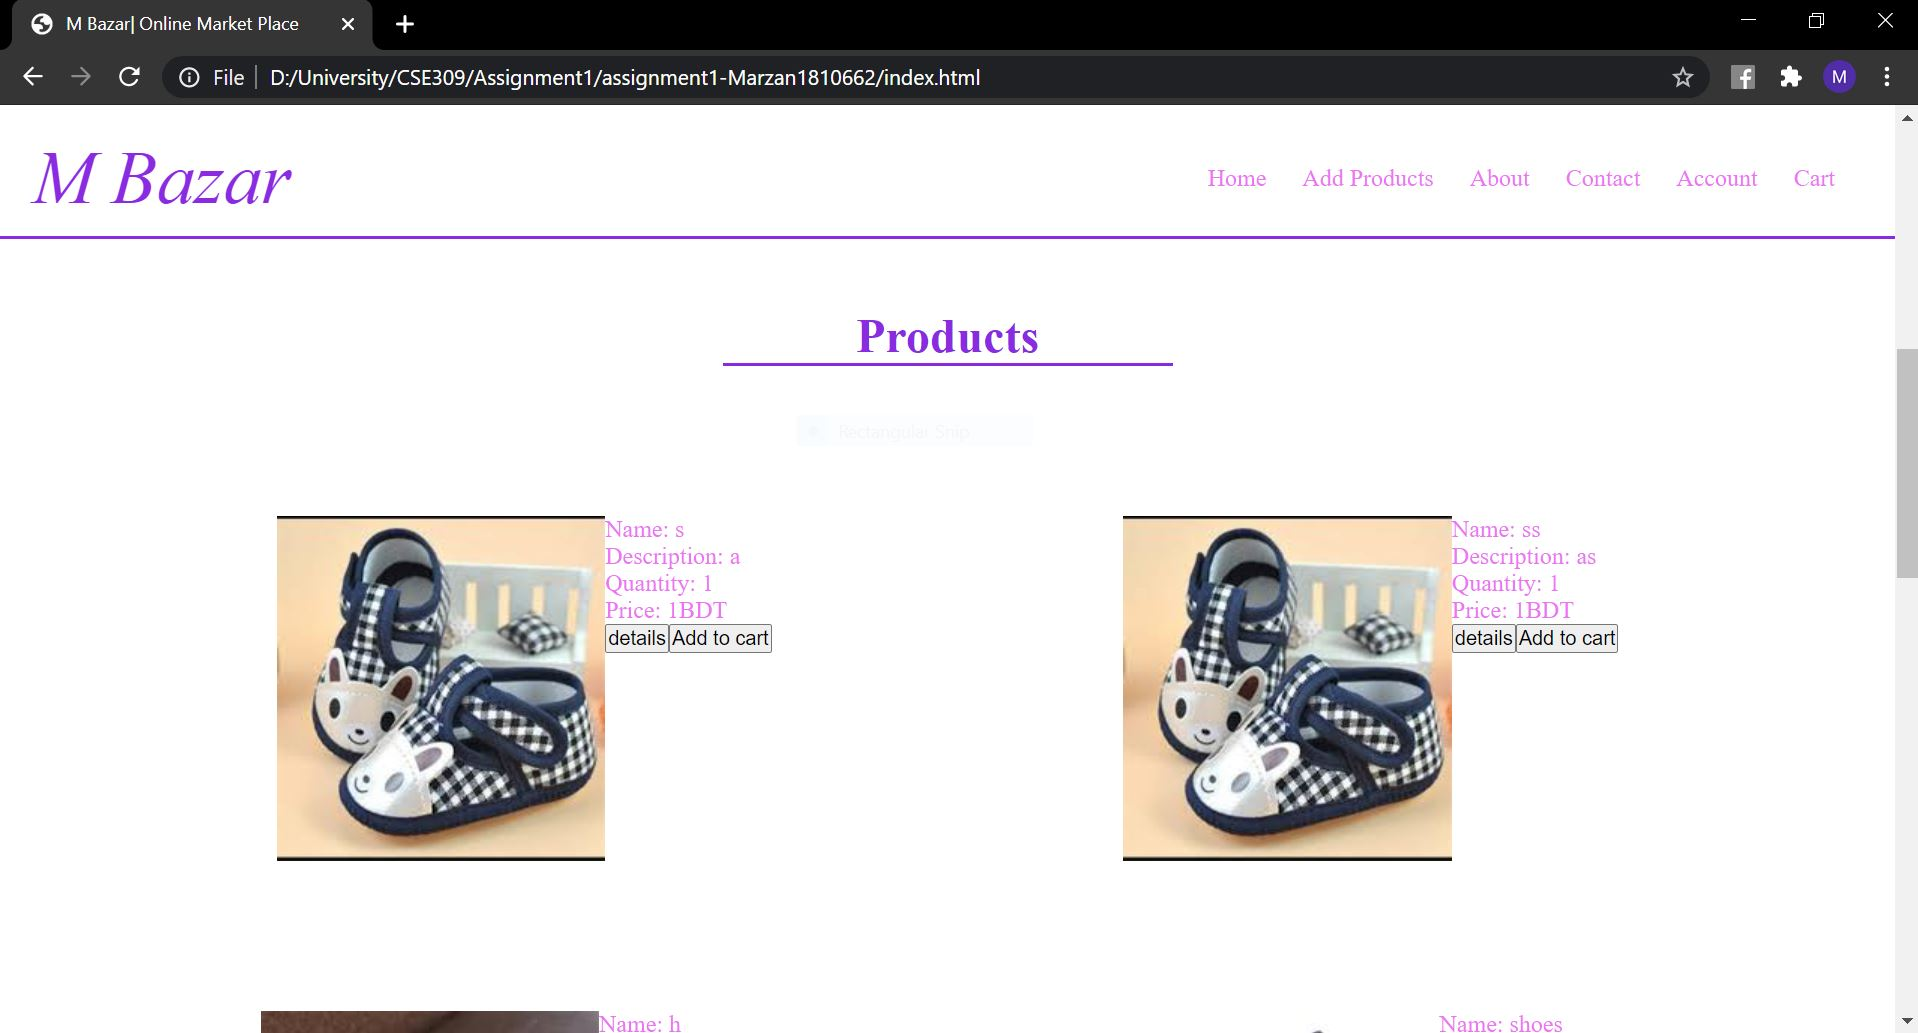
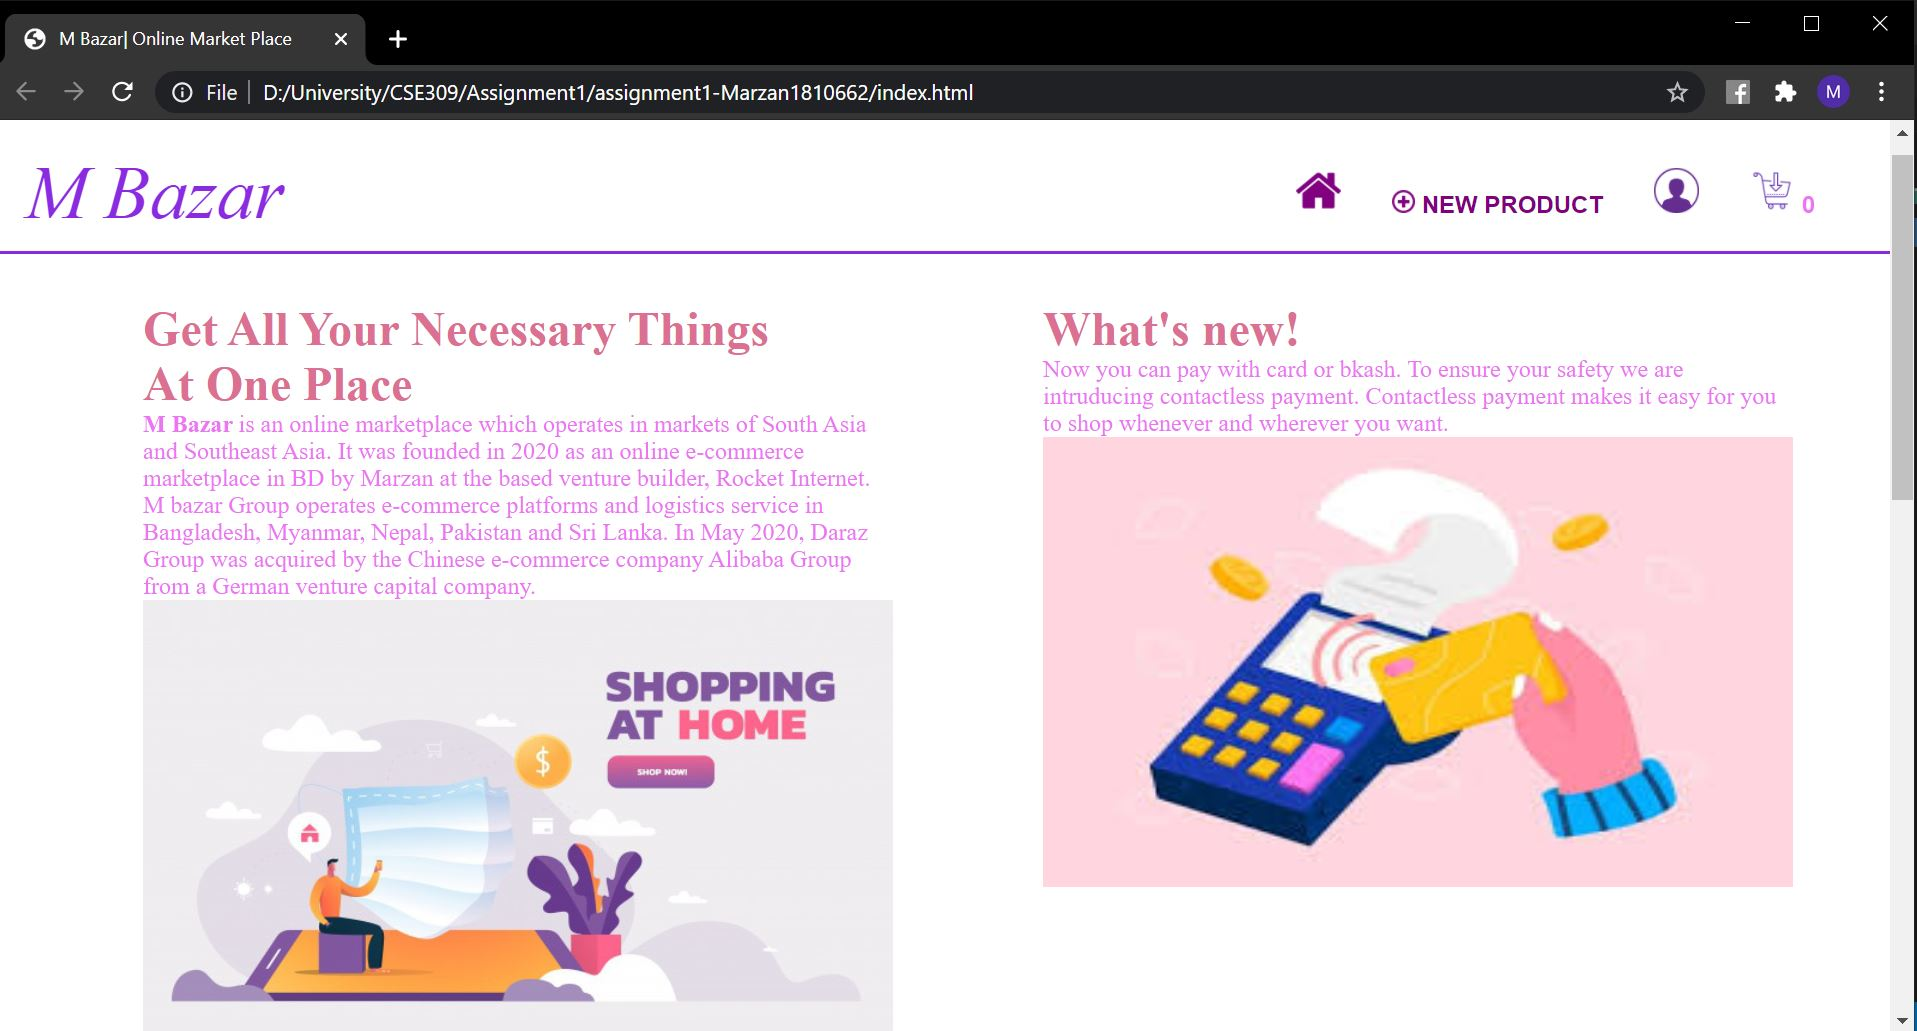
assignment1 original

diff --git a/index.html b/index.html
@@ -10,7 +10,7 @@
 <body>
     <div id="container">
         <div class="navbar">
-            <div id="logo"><a href="index.html"> MM Bazar</a></div>
+            <div id="logo"><a href="index.html"> M Bazar</a></div>
             <nav>
                 <ul>
                     <li>
@@ -34,13 +34,13 @@
         <div class="row">
             <div class="col-1">
                 <h1 style="color: palevioletred;"> Get All Your Necessary Things <br> At One Place</h1>
-                <p>hiuhku jkjkjbjouhouh uhuihiohkkjnhiu <br>bhbkbkjhuhiuhiu bhbkjbkjbk hbkbj</p>
+                <p><b> M Bazar </b> is an online marketplace which operates in markets of South Asia and Southeast Asia. It was founded in 2020 as an online e-commerce marketplace in BD by Marzan at the based venture builder, Rocket Internet. M bazar Group
+                    operates e-commerce platforms and logistics service in Bangladesh, Myanmar, Nepal, Pakistan and Sri Lanka. In May 2020, Daraz Group was acquired by the Chinese e-commerce company Alibaba Group from a German venture capital company.</p>
                 <img src="onlinemarketplace2.png" alt="onlinemarketplace" width="500px" height="300px">
             </div>
             <div class="col-2">
                 <h1> What's new!</h1>
-                <p>Lorem ipsum dolor sit amet, consectetur adipiscing elit. Ut suscipit tortor et purus rutrum faucibus. Etiam pharetra neque at purus dictum, vel interdum urna bibendum. Pellentesque mattis erat ut mollis vulputate. Sed dignissim gravida
-                    turpis, vel mattis erat aliquam vel. Curabitur ultricies gravida neque nec aliquet. Aliquam ut odio a sapien pharetra ornare vel ut est. Fusce vehicula varius massa et euismod.</p>
+                <p>Now you can pay with card or bkash. To ensure your safety we are intruducing contactless payment. Contactless payment makes it easy for you to shop whenever and wherever you want.</p>
                 <img src="contactlesspayment.jpg" alt="contactlesspayment" width="500px" height="300px">
             </div>
         </div>

diff --git a/script.js b/script.js
@@ -13,6 +13,7 @@ if (products.length > 0) {
         let price = $('<p>').text('Price: ' + products[i].price + "BDT");
         let details = $('<button>').text('details').attr("id", "d" + i).addClass("productviewbtn");
         let addcart = $('<button>').text('Add to cart').attr("id", "p" + i).addClass("productviewbtn");
+        //let addcart = $('<button>').text('Add to cart').attr("id", "p" + i).addClass("productviewbtn cart");
         let remove = $('<button>').text('Remove').attr("id", "r1" + i).addClass("productviewbtn");
         let div1 = $('<div>').append(name, price, details, addcart).css("text-align", "left").addClass("productview");
         let product = $('<div>').append(image, div1).addClass('eachproduct');
@@ -22,7 +23,12 @@ if (products.length > 0) {
     }
 }
 
-//submit butoon on click
+//line 16 click function with classname for dynamicaaly created button
+// $('.cart').click(function(event) {
+//     console.log(event.target.id);
+// })
+
+//submit button on click
 $('#submit').click(function() {
     let id = products.length
     let name = $('#name').val();
@@ -48,6 +54,12 @@ $('#submit').click(function() {
 })
 
 
+//cancel button on click
+$('#cancel').click(function() {
+    window.location.href = "add_products.html"
+})
+
+
 
 cart = [];
 
@@ -63,7 +75,7 @@ if (cart.length == 0) {
 }
 
 
-if (cart.length == 0) { $('#itemno').hide() } else { $('#itemno').show() }
+// if (cart.length == 0) { $('#itemno').hide() } else { $('#itemno').show() }
 $('#itemno').text(cart.length)
 
 

diff --git a/add_products.html b/add_products.html
@@ -19,7 +19,9 @@
                     <a href=""><img src="account.png" alt="account" height="30px" width="30px"></a>
                 </li>
                 <li>
-                    <a href="cart.html"><img src="cart.png" alt="cart" height="30px" width="30px"></a>
+                    <a href="cart.html"><img src="cart.png" alt="cart" height="30px" width="30px">
+                        <p id="itemno"></p>
+                    </a>
                 </li>
             </ul>
         </nav>

diff --git a/style.css b/style.css
@@ -129,11 +129,17 @@ p {
     flex-wrap: wrap;
     margin: 90px 0px;
     margin-bottom: 0px;
-    padding: 50px;
+    padding: 50px 0px;
     padding-bottom: 60px;
     /* padding-left: 50px; */
     /* border-bottom: 2px solid blueviolet; */
     /* background-color: rgb(239, 220, 241); */
+}
+
+.col-1 {
+    color: palevioletred;
+    margin-left: 100px;
+    width: 500px;
 }
 
 .col-2 {

diff --git a/README.md b/README.md
@@ -1,28 +1,44 @@
 # Assignment1
-1.All products view- Home Page
-<<<<<<< HEAD
-<img src= "images/HomePage.JPG" alt="Home page">
-=======
-<img src="HomePage.jpg">
+1. Home Page
+<img src="images/Homepage.JPG">
+    -On the first page there are information about the page and information about new features.
+    -On the navigation bar there is manu bar containing home, add new product, account and cart icon
 
->>>>>>> 3084b16680d8b077c44ba7ef1c2118ed62d6d01c
-    - "new product" in the navigation bar shows 'New product form view'
-    -"add to cart" button beside each product adds product to cart
-    -"details" button shows the single product view of each product
-2.New product form view
-<img src= "images/AddProductForm.JPG" alt="Form">
+2.All products view- Home page
+<img src="images/products.JPG">
+<img src="images/newproduct.JPG">  
+     - "new product" icon in the navigation bar shows 'New product form view'
+      <img src="images/carticon.JPG">
+     -"acart" icon in the nevigation bar shows the number of items in the list and it load the cart page.
+     <img src= "images/homeicon.JPG">
+     -reloads the home page
+
+ <img src="images/details.JPG">
+    - beside every product there are two buttons
+    -"details" button shows 'Single product view'
+    -"Add to cart" button adds products in cart and shows updated number of items in the cart on the menu bar cart icon. 
+
+3.New product form view
+<img src= "images/form.JPG">
+    -in the input fields, various information about the product are put
     - "submit" button adds product to the home page with the input form information
+    -"cancel" button reloads the page
 
-3.Single product view (product details)
-<img src= "images/ProductDetails.JPG" alt="Cart">
+4.Single product view (product details)
+<img src= "images/singleproductview.JPG">
     - "back button" on single product view page loads the home page
+    -"add to cart button" adds the product in cart
+
 4.Shopping cart View with items
-<img src= "images/Cart1.JPG" alt="Cart">
-<img src= "images/Cart2.JPG" alt="Home page">
-    - each product quantity can be changed
+<img src= "images/cart.JPG">
+    -shows the cart view with products
+    <img src= "images/qty.JPG">
+    - each product quantity can be changed 
+    -"total" button updates the total price
     -"remove button" removes each corresponding product from cart
     -"Continue shopping" button loads the home page
+
 5.Empty card view
-<img src= "images/EmptycartView.jpg" alt="Home page">
+<img src= "images/emptycart.JPG">
     -empty card view shows the messege "nothing has been added to the cart"
-    -"contimue shopping" loads the home page
+    -"continue shopping" loads the home page
